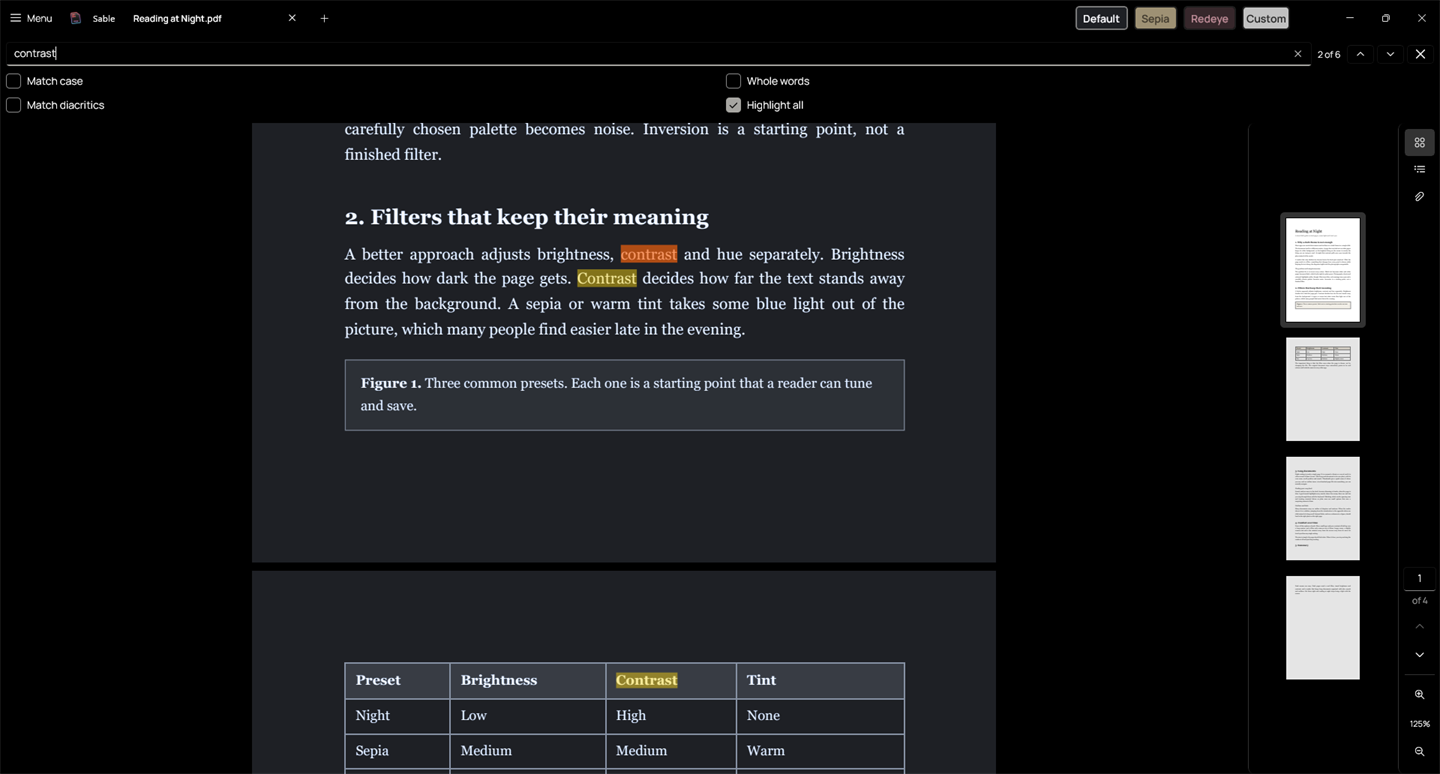
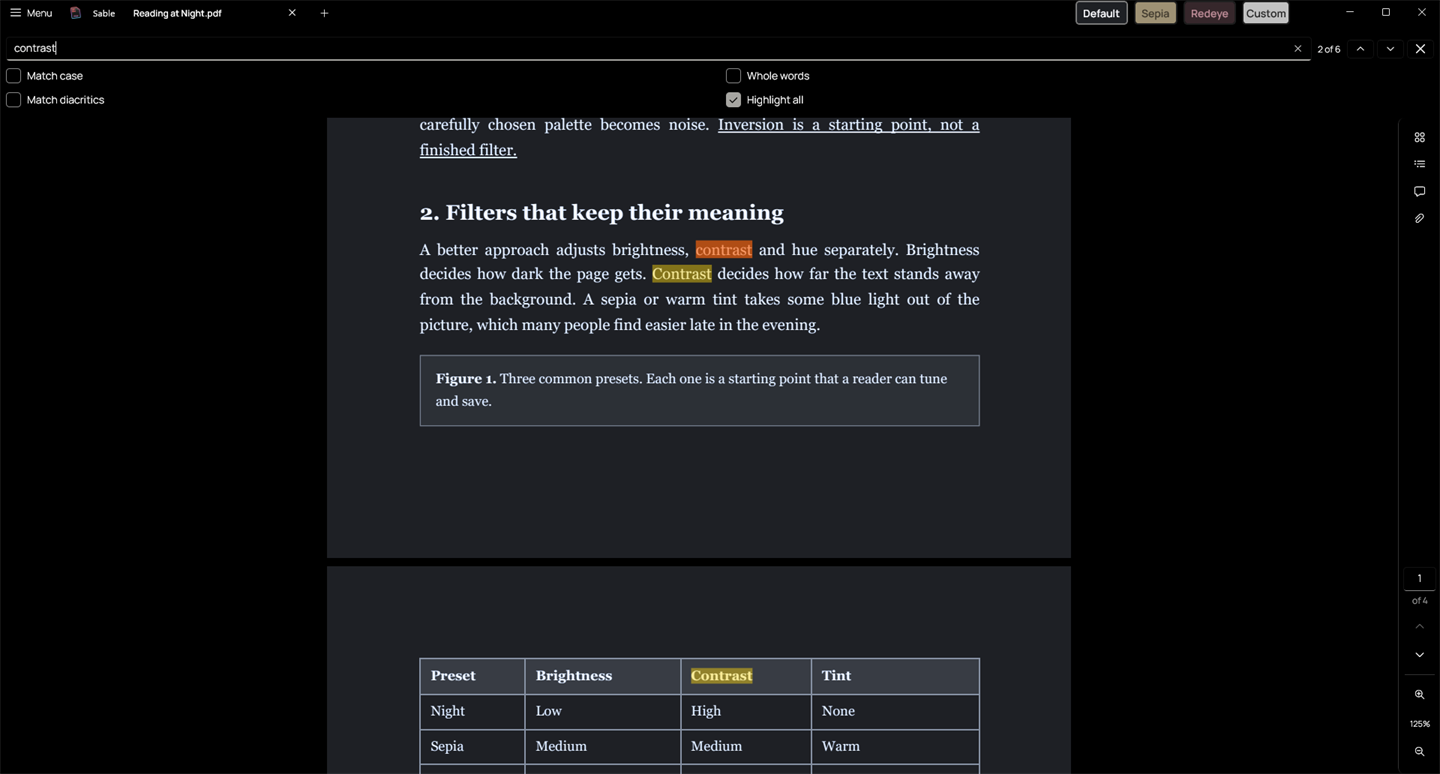
new sable screenshots from the current build: notes and markup, find, spreads
swapped sepia + outline for notes (highlight, underline, a note in the comments panel)
and an odd-page spread in redeye

diff --git a/src/components/Projects.jsx b/src/components/Projects.jsx
@@ -8,26 +8,30 @@ import ArchitectureExplorer from "./ArchitectureExplorer";
 import CursusOverview from "./CursusOverview";
 import ultronImage from "../assets/myUltron.webp";
 import sableReader from "../assets/sable/reader.png";
-import sableSepia from "../assets/sable/sepia.png";
+import sableNotes from "../assets/sable/notes.png";
 import sableFind from "../assets/sable/find.png";
-import sableOutline from "../assets/sable/outline.png";
+import sableSpread from "../assets/sable/spread.png";
 
 const sableScreens = [
     {
         title: "Night",
         image: sableReader,
-        alt: "sable showing a document with the Default night filter and page thumbnails in the right rail"
+        alt: "sable showing a sample document with the Default night preset and page thumbnails in the right rail"
     },
-    { title: "Sepia", image: sableSepia, alt: "The same document with the Sepia preset applied" },
+    {
+        title: "Notes",
+        image: sableNotes,
+        alt: "A highlighted sentence and an underlined one in the Sepia preset, with both marks and a typed note listed in the comments panel"
+    },
     {
         title: "Find",
         image: sableFind,
         alt: "Find with six matches for the word contrast, the current match highlighted in orange"
     },
     {
-        title: "Outline",
-        image: sableOutline,
-        alt: "The document outline sidebar showing nested chapters and sections"
+        title: "Spreads",
+        image: sableSpread,
+        alt: "Pages one and two side by side as an odd-page spread, in the Redeye preset"
     }
 ];
 const sableFlow = [
@@ -161,7 +165,7 @@ function SableFeature() {
                     screens={sableScreens}
                     width={1440}
                     height={774}
-                    caption="Alpha build · a sample document written for these screenshots."
+                    caption="Development build, November 2026 · a sample document written for these screenshots."
                 />
             }
         >

diff --git a/README.md b/README.md
@@ -19,7 +19,7 @@ The site has six pages: `/`, `/work`, `/stack`, `/experience`, `/uses` and `/con
 
 Edit profile, projects, skills, and experience in `src/data/portfolio.js`. The page and terminal share those records. On project cards, `role` is the "my part" line, `proof` is the "outcome" line, and `note` holds status or credit text. Leave missing URLs as `null`; the card just drops that link.
 
-sable screenshots live in `src/assets/sable/` (alpha build, sample document). Cursus is shown with an illustration, `src/components/CursusOverview.jsx`, not a screenshot; the old captures in `src/assets/cursus/` aren't used. Metadata is in `index.html`; the social image is `public/og-preview.png`.
+sable screenshots live in `src/assets/sable/` (development build, November 2026, sample document; the highlight, underline and note were made in sable itself). Cursus is shown with an illustration, `src/components/CursusOverview.jsx`, not a screenshot; the old captures in `src/assets/cursus/` aren't used. Metadata is in `index.html`; the social image is `public/og-preview.png`.
 
 ## Work page
 

diff --git a/src/assets/sable/README.md b/src/assets/sable/README.md
@@ -1,10 +1,10 @@
 # sable screens
 
-Captured from the sable v1.0.0-alpha.1 build on 19 October 2026, using a short sample document written for the screenshots.
+Captured on 2 November 2026 from a local Release build of sable (compiled 28 October, after notes, markup, spreads and presentation mode landed), using a short sample document written for the screenshots. The highlight, underline and note were added in sable itself.
 
 - `reader.png`: Default night preset with page thumbnails
-- `sepia.png`: Sepia preset
+- `notes.png`: Sepia preset with a highlight, an underline and a note, and the comments panel open
 - `find.png`: Find with highlighted matches
-- `outline.png`: document outline sidebar
+- `spread.png`: odd-page spreads in the Redeye preset
 
 Each image is 1440 × 774.
